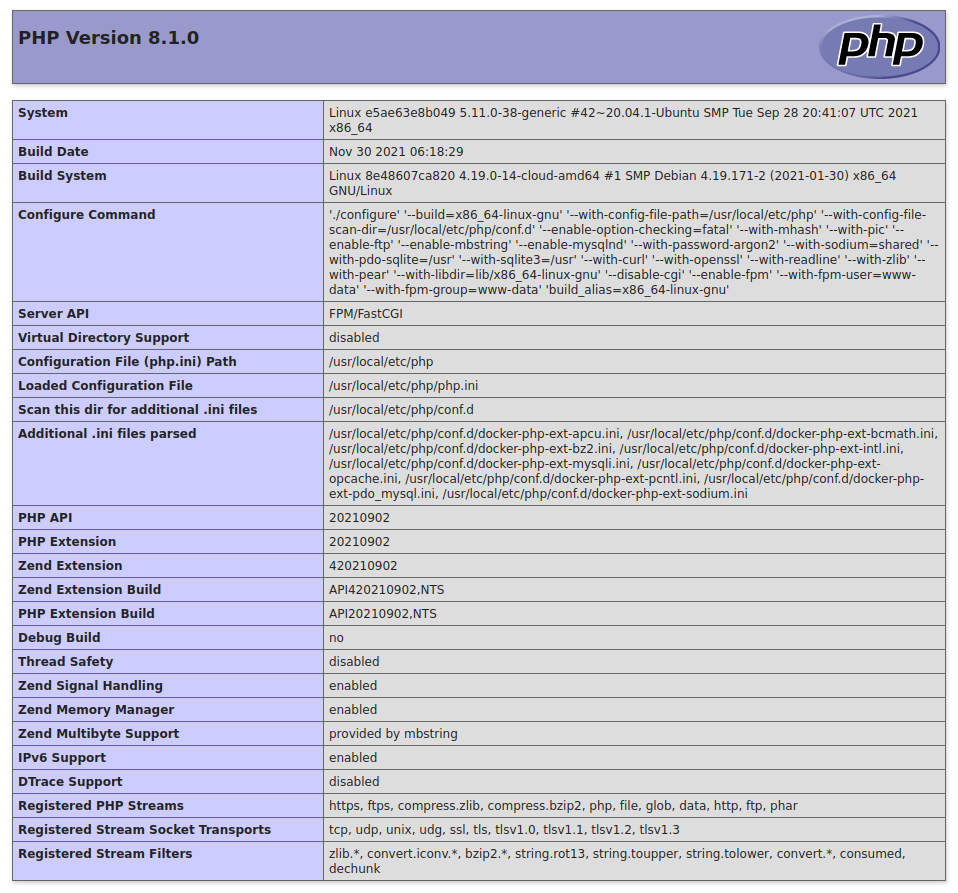
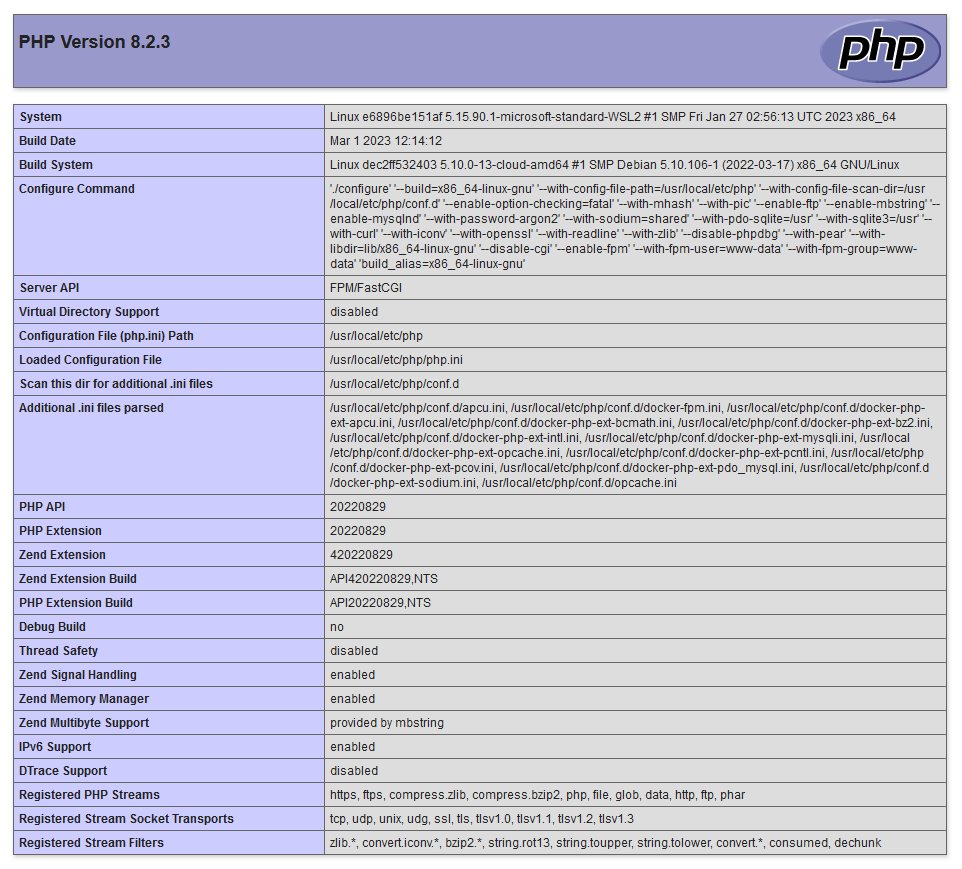
Update Dockerfile to upgrade to PHP 8.2

Changed region(s): [[0.0, 0.0, 0.999, 0.9942]]

diff --git a/README.md b/README.md
@@ -10,7 +10,7 @@
 1. [License](#license)
 
 ## About project
-- [x] Docker with [PHP 8.1](https://www.php.net/supported-versions.php) container and [Symfony Local Web Server](https://symfony.com/doc/current/setup/symfony_server.html)
+- [x] Docker with [PHP 8.2](https://www.php.net/supported-versions.php) container and [Symfony Local Web Server](https://symfony.com/doc/current/setup/symfony_server.html)
 - [x] [Makefile](https://www.gnu.org/software/make/manual/make.html#Introduction) with docker commands
 - [x] [GitHub Actions](https://github.com/features/actions) to automate, customize, and execute your software development workflows right in your repository, including CI/CD
 - [x] MIT License
@@ -60,7 +60,7 @@ Access bash for PHP docker container:
 
 ## Future improvements
 
-- [x] **[Upgrade PHP](https://www.php.net/supported-versions.php)** to latest stable version: 8.1
+- [x] **[Upgrade PHP](https://www.php.net/supported-versions.php)** to latest stable version: 8.2
 - [ ] Add database container: MySQL or PostgreSQL
 
 ## License
